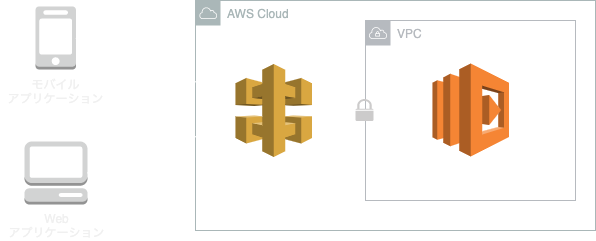
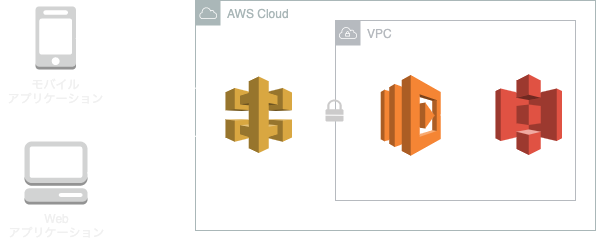
fix: 内部処理記述の修正とインフラ構成の修正

diff --git a/README.md b/README.md
@@ -18,7 +18,9 @@
 * [こちら](https://kamimi01.github.io/article-collection-architecture/)のページで公開中
 
 ### API処理機能記述
-* PlantUMLでシーケンス図として作成した（非公開）
+* PlantUMLでシーケンス図として作成した
+
+![](./assets/article_info_get_api.png)
 
 ### モックサーバの起動方法
 1. `open-api`のフォルダで、`npm install`する
